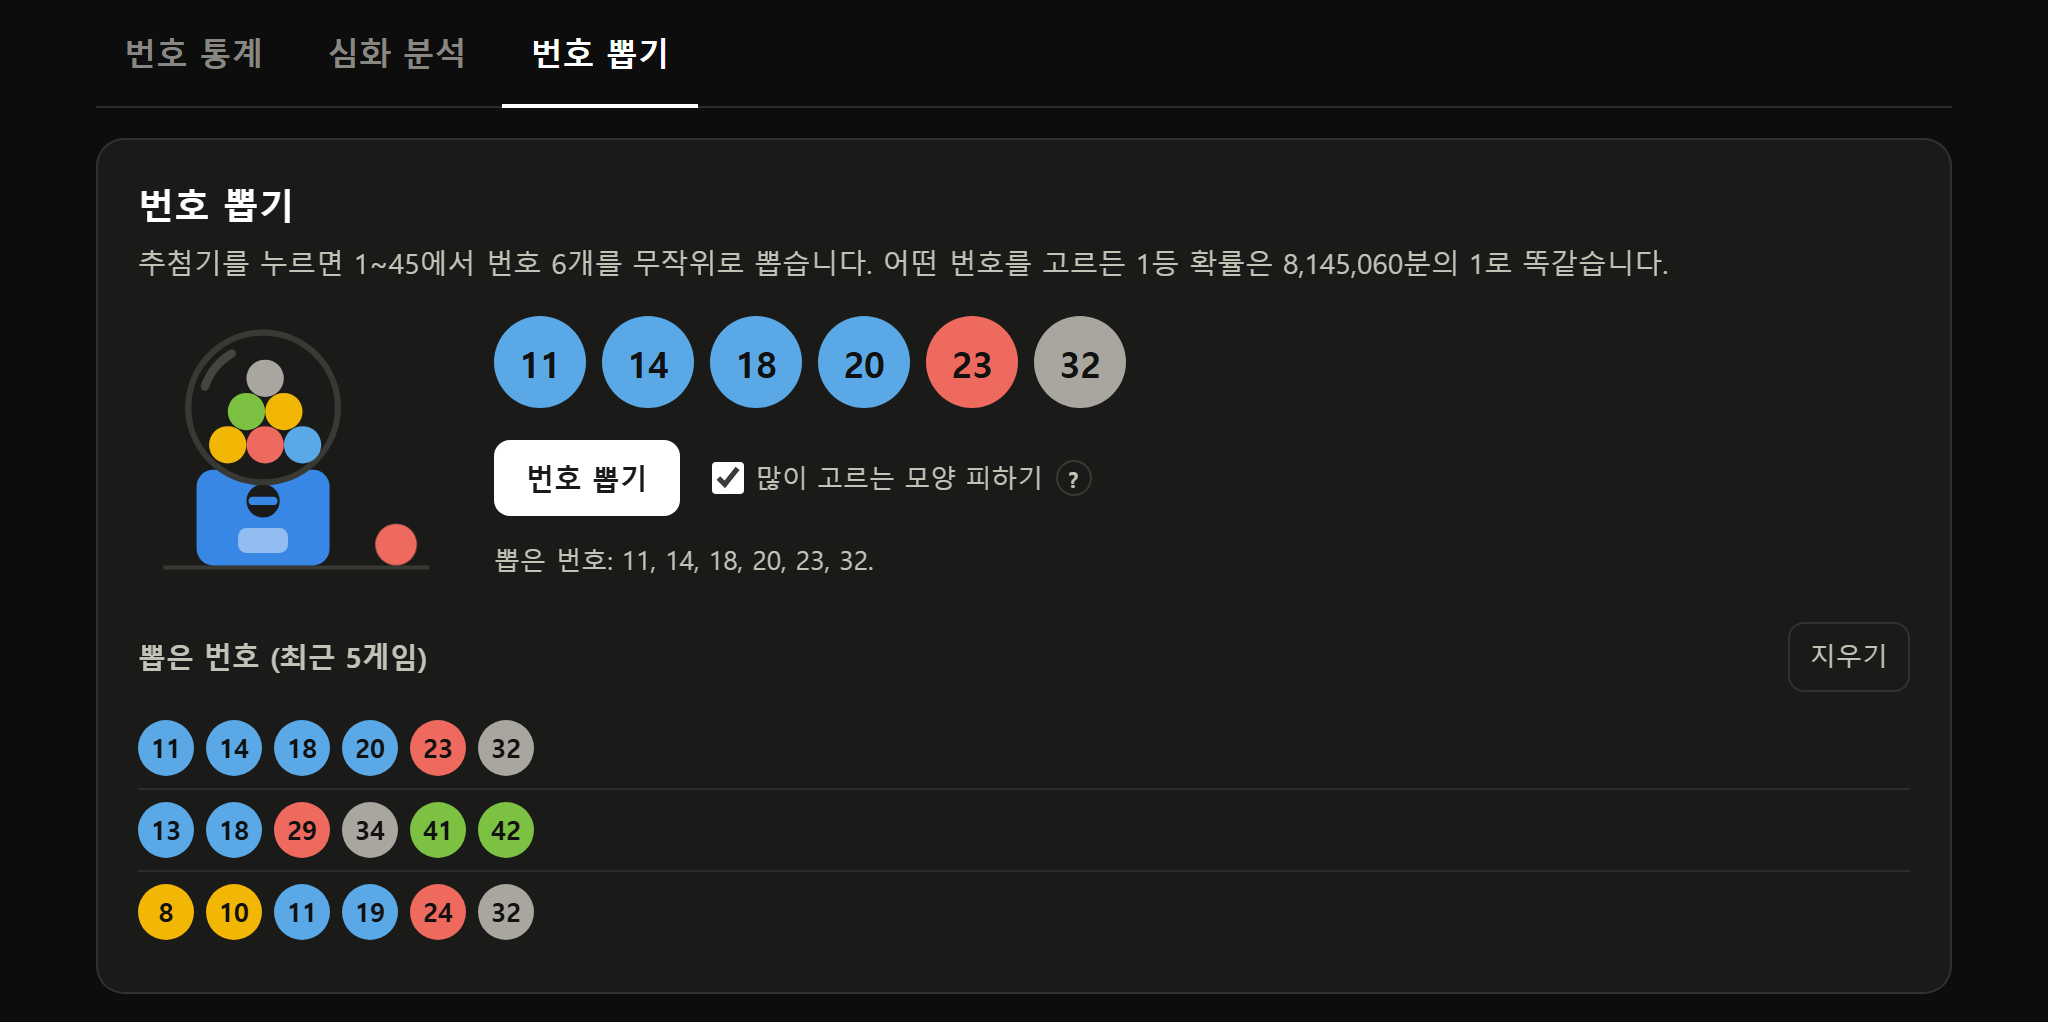
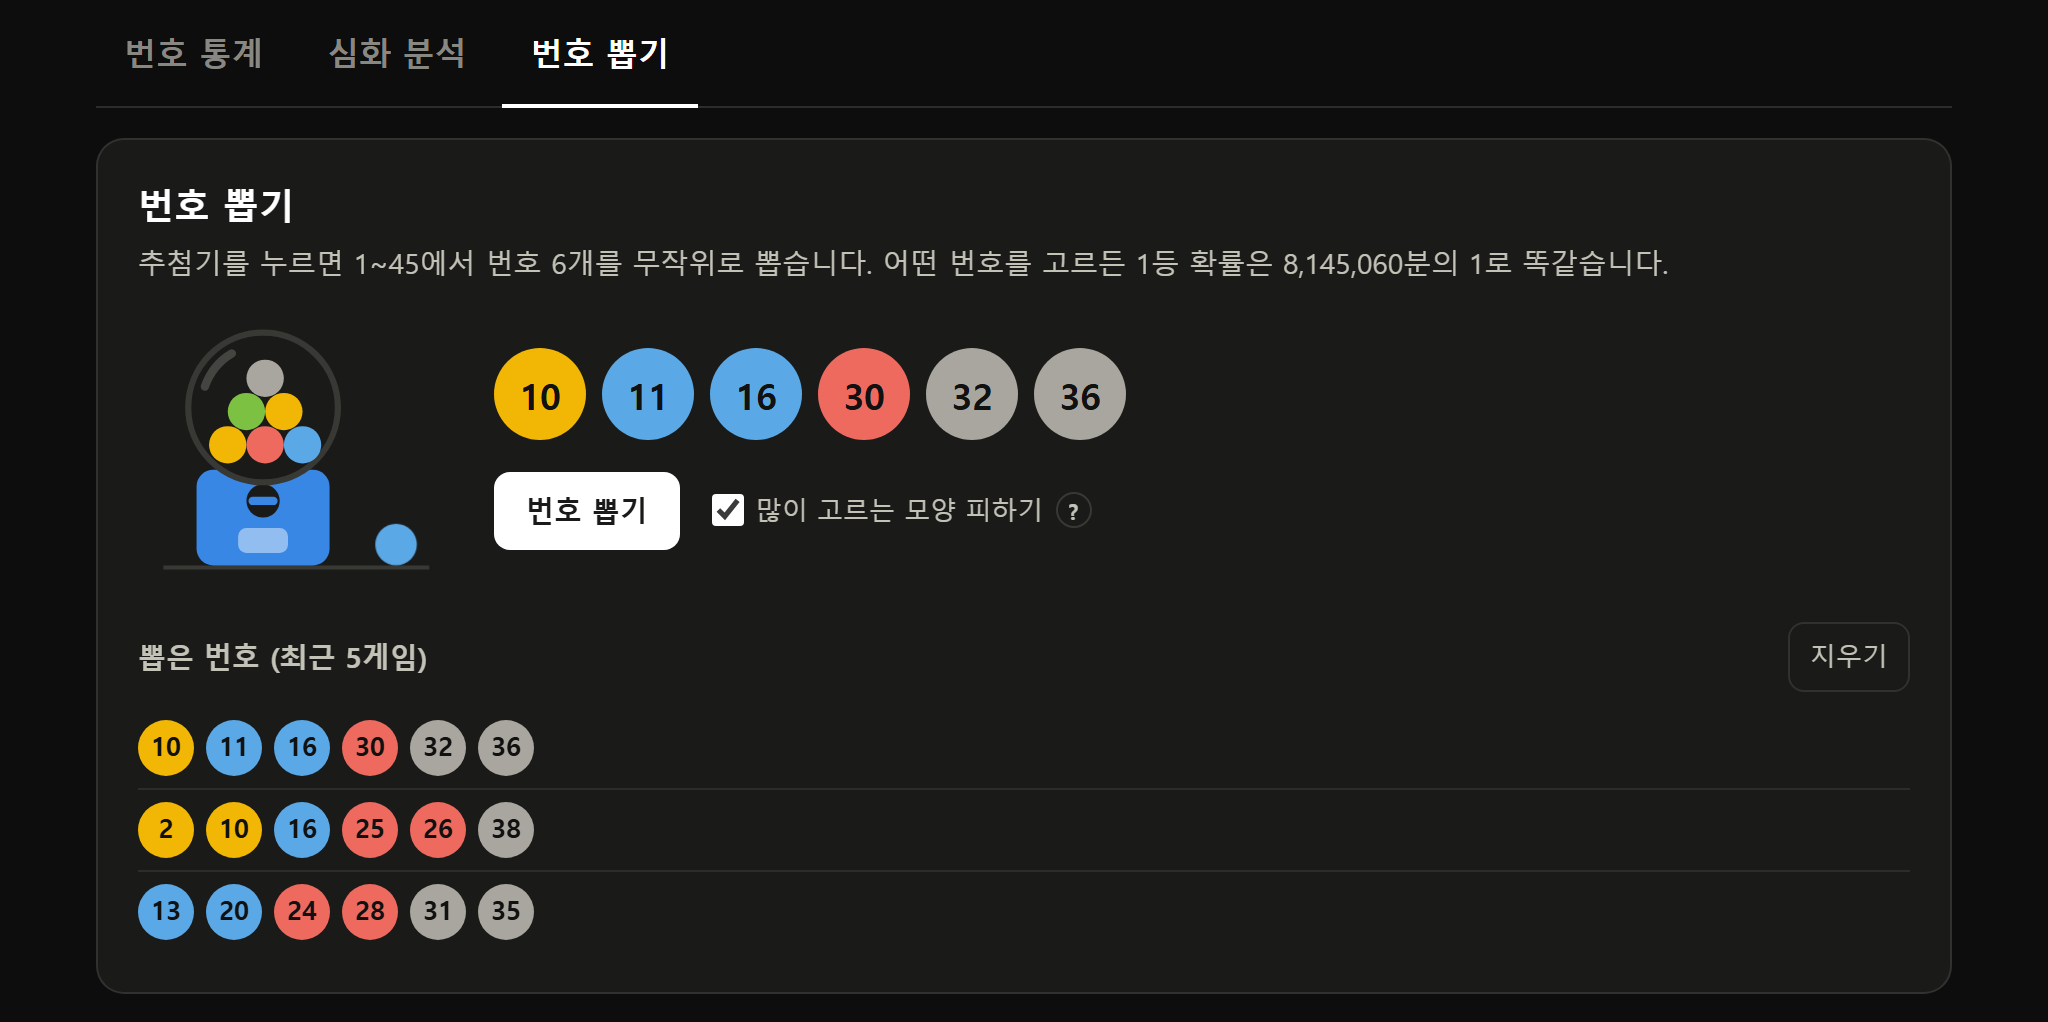
번호 뽑기에서 '뽑은 번호: …' 문구 제거
번호는 바로 위 공으로 보이므로 화면 문구는 빼고, 화면 낭독기용 안내(숨김 aria-live)로만 남겼다.
많이 고르는 모양이 나와 다시 뽑은 경우에만 그 안내를 화면에 보여준다.

diff --git a/docs/index.html b/docs/index.html
@@ -354,7 +354,8 @@
   .pick-actions { display: flex; flex-wrap: wrap; align-items: center; gap: 10px 16px; margin-top: 16px; }
   .pick-actions .check { gap: 6px; }
   .pick-option { display: inline-flex; align-items: center; gap: 6px; }
-  .pick-note { font-size: 13px; color: var(--ink-2); margin: 12px 0 0; min-height: 1.6em; }
+  .pick-note { font-size: 13px; color: var(--ink-2); margin: 12px 0 0; }
+  .pick-note:empty { display: none; }
   .pick-history-head { display: flex; justify-content: space-between; align-items: center; margin-top: 20px; }
   .pick-history-head h3 { font-size: 14px; font-weight: 600; color: var(--ink-2); margin: 0; }
   .pick-history { list-style: none; padding: 0; margin: 8px 0 0; }
@@ -612,7 +613,8 @@
             <button type="button" class="help" id="pick-help">?</button>
           </span>
         </div>
-        <p class="pick-note" id="pick-note" aria-live="polite"></p>
+        <p class="pick-note" id="pick-note"></p>
+        <p class="sr-only" id="pick-live" aria-live="polite"></p>
       </div>
     </div>
     <div id="pick-history-wrap" hidden>
@@ -1792,6 +1794,7 @@
     tray.textContent = '';
     const slots = nums.map(() => htmlEl('span', 'pick-slot', null, tray));
     $('pick-note').textContent = '';
+    $('pick-live').textContent = '';
     // 손잡이가 돌고 구슬이 섞이는 동안 기다렸다가 하나씩 꺼낸다
     const start = reduceMotion ? 0 : 900;
     const step = reduceMotion ? 0 : 170;
@@ -1801,9 +1804,11 @@
       slots[i].replaceWith(b);
     }, start + step * i));
     setTimeout(() => {
+      // 번호는 공으로 보여주므로 화면에는 다시 뽑은 경우만 적고, 화면 낭독기에는 번호까지 읽어 준다
       const again = skipped.length
-        ? ` 많이 고르는 모양(${[...new Set(skipped)].join(', ')})이 나와서 ${skipped.length}번 다시 뽑았습니다.` : '';
-      $('pick-note').textContent = `뽑은 번호: ${nums.join(', ')}.${again}`;
+        ? `많이 고르는 모양(${[...new Set(skipped)].join(', ')})이 나와서 ${skipped.length}번 다시 뽑았습니다.` : '';
+      $('pick-note').textContent = again;
+      $('pick-live').textContent = `뽑은 번호: ${nums.join(', ')}. ${again}`;
       pickHistory.unshift(nums);
       pickHistory.length = Math.min(pickHistory.length, PICK_HISTORY_MAX);
       renderPickHistory();

diff --git a/site_template.html b/site_template.html
@@ -354,7 +354,8 @@
   .pick-actions { display: flex; flex-wrap: wrap; align-items: center; gap: 10px 16px; margin-top: 16px; }
   .pick-actions .check { gap: 6px; }
   .pick-option { display: inline-flex; align-items: center; gap: 6px; }
-  .pick-note { font-size: 13px; color: var(--ink-2); margin: 12px 0 0; min-height: 1.6em; }
+  .pick-note { font-size: 13px; color: var(--ink-2); margin: 12px 0 0; }
+  .pick-note:empty { display: none; }
   .pick-history-head { display: flex; justify-content: space-between; align-items: center; margin-top: 20px; }
   .pick-history-head h3 { font-size: 14px; font-weight: 600; color: var(--ink-2); margin: 0; }
   .pick-history { list-style: none; padding: 0; margin: 8px 0 0; }
@@ -612,7 +613,8 @@
             <button type="button" class="help" id="pick-help">?</button>
           </span>
         </div>
-        <p class="pick-note" id="pick-note" aria-live="polite"></p>
+        <p class="pick-note" id="pick-note"></p>
+        <p class="sr-only" id="pick-live" aria-live="polite"></p>
       </div>
     </div>
     <div id="pick-history-wrap" hidden>
@@ -1792,6 +1794,7 @@
     tray.textContent = '';
     const slots = nums.map(() => htmlEl('span', 'pick-slot', null, tray));
     $('pick-note').textContent = '';
+    $('pick-live').textContent = '';
     // 손잡이가 돌고 구슬이 섞이는 동안 기다렸다가 하나씩 꺼낸다
     const start = reduceMotion ? 0 : 900;
     const step = reduceMotion ? 0 : 170;
@@ -1801,9 +1804,11 @@
       slots[i].replaceWith(b);
     }, start + step * i));
     setTimeout(() => {
+      // 번호는 공으로 보여주므로 화면에는 다시 뽑은 경우만 적고, 화면 낭독기에는 번호까지 읽어 준다
       const again = skipped.length
-        ? ` 많이 고르는 모양(${[...new Set(skipped)].join(', ')})이 나와서 ${skipped.length}번 다시 뽑았습니다.` : '';
-      $('pick-note').textContent = `뽑은 번호: ${nums.join(', ')}.${again}`;
+        ? `많이 고르는 모양(${[...new Set(skipped)].join(', ')})이 나와서 ${skipped.length}번 다시 뽑았습니다.` : '';
+      $('pick-note').textContent = again;
+      $('pick-live').textContent = `뽑은 번호: ${nums.join(', ')}. ${again}`;
       pickHistory.unshift(nums);
       pickHistory.length = Math.min(pickHistory.length, PICK_HISTORY_MAX);
       renderPickHistory();
